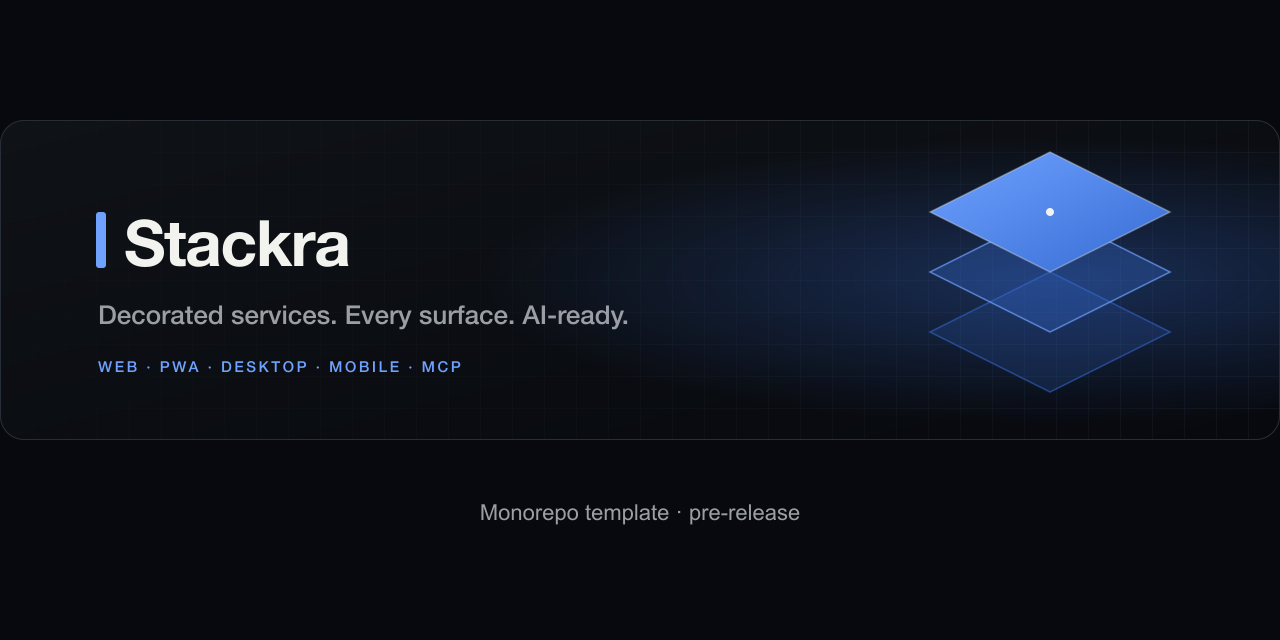
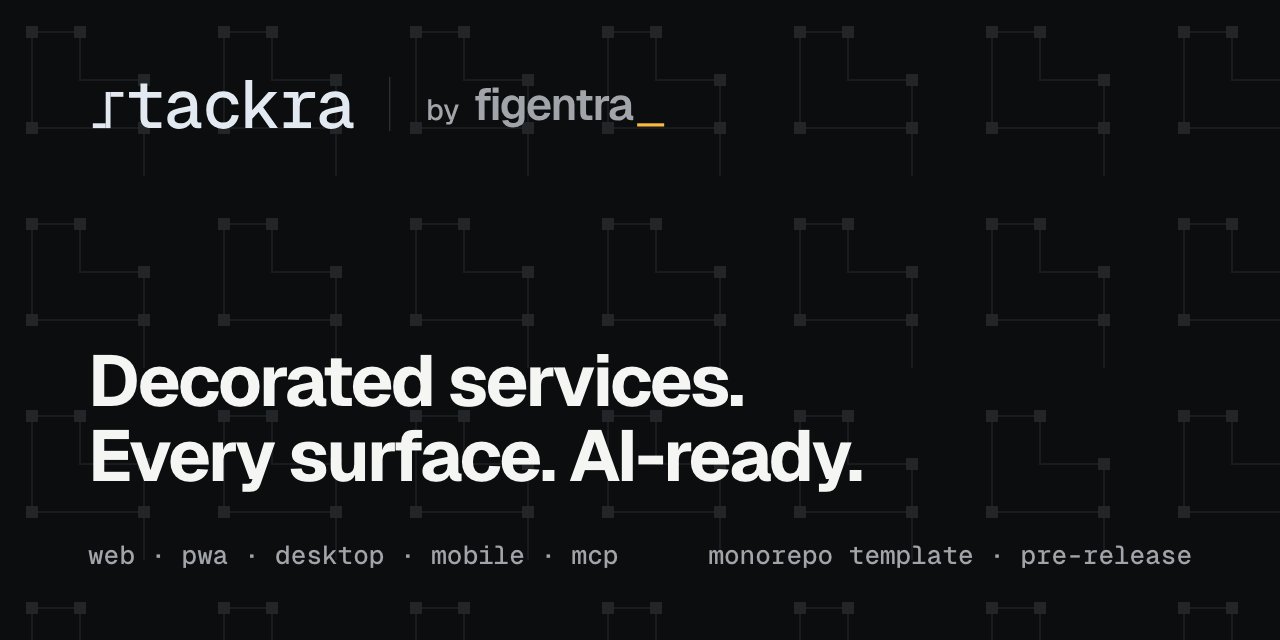
chore(repo): 🎨 Stackra brand kit in the README, social preview and trademark notice (#7)
- README opens with the endorsed Stackra logo (dark and light) from .github/assets/brand/,
  copied unmodified from @stackra/brand; badges use brand token colours.
- Social preview rebuilt from the brand kit: wordmark with the by figentra_ signature,
  neutral palette, the kit's graph pattern; the old banner.svg is removed.
- TRADEMARKS.md covers the bundled Stackra assets only; your own code stays yours.
  .github/assets/NOTICE scopes the images.
- The mobile placeholder logo is the neutral Acme mark, like web and console.
- REVIEW.md lists the new files, the full .mcp.yaml and the .vscode setup.

diff --git a/REVIEW.md b/REVIEW.md
@@ -37,23 +37,24 @@ repository (`final-project`, `main`), then cleaned for public use: every repo op
 (`@acme/*`, `acme.dev`), listed in README "Make it yours". **Copied** = from the real repo unchanged; **adapted** = copied, then changed to v2 and made generic;
 **template** = exists only here.
 
-| Item                                                   | For                                                                                                                   | Origin                                                                                                                                   |
-| ------------------------------------------------------ | --------------------------------------------------------------------------------------------------------------------- | ---------------------------------------------------------------------------------------------------------------------------------------- |
-| `package.json`                                         | root scripts, all thin calls: `stackra verify`, `validate`, `new`, `gen`, `agents setup` …                            | adapted: no `node tools/scripts/*`; `prepare` runs `lefthook install && stackra mcp sync`; `agents:setup`; tooling presets `workspace:*` |
-| `pnpm-workspace.yaml`                                  | members and every version                                                                                             | adapted: `release` catalog, knip, coverage, `@types/node`; tool versions aligned with the real repo                                      |
-| `turbo.jsonc`                                          | task graph and tier boundaries                                                                                        | adapted: the template's `gen`-first graph plus remote cache, strict env, `format`, `clean`, `dev`, `test:coverage`                       |
-| `runway.yaml`, `stackra.lock.yaml`                     | infrastructure; pinned external producer manifests                                                                    | template                                                                                                                                 |
-| `AGENTS.md`, `CLAUDE.md`                               | this project's facts: glossary, member layout, rules of the model, commands; `CLAUDE.md` is `@AGENTS.md`              | adapted: no projected rules block; a Commands section points at `stackra agents setup` and the Stackra MCP                               |
-| `.claude/launch.json`                                  | the assistant preview's dev-server launch configuration (docs on 3333)                                                | copied (no `settings.json`: permissions and hooks are user-level)                                                                        |
-| `.github/`                                             | Quality Gate (`pnpm verify`, commitlint, secret scan), release, issue and PR templates, CODEOWNERS, branch protection | adapted: no Linear check, no bot token, placeholder team, one required approval                                                          |
-| `.changeset/`                                          | Changesets config and README                                                                                          | copied (README links made generic)                                                                                                       |
-| `.gitignore`, `.gitattributes`                         | what git never tracks; generated markers                                                                              | adapted: `.stackra/*` except the two contracts; `.mcp.json` ignored                                                                      |
-| `.oxlintrc.jsonc`, `.oxfmtrc.jsonc`, `knip.jsonc`      | lint, format, unused-code entries                                                                                     | adapted: in-repo boundaries preset; generated `.stackra` files are knip entries                                                          |
-| `lefthook.yml`, `.commitlintrc.yaml`, `.gitleaks.toml` | git hooks, conventional commits, secret scan                                                                          | adapted: pre-push runs `stackra gen --check` and `stackra verify --affected`; the issue-key rule is off until you set it                 |
-| `mise.toml`, `.node-version`, `.editorconfig`          | toolchain pins, editor contract                                                                                       | `mise.toml` adapted (no AWS profile, no spec-kit); others copied                                                                         |
-| `.mcp.yaml`                                            | the Stackra MCP only: local `stackra mcp` and the hosted server (placeholder URL)                                     | adapted: third-party servers are user-level; `.mcp.json` is rendered by `stackra mcp sync` and gitignored                                |
-| `CONTRIBUTING.md`, `SECURITY.md`, `LICENSE`, `NOTICE`  | contributor steps, disclosure policy, MIT, licence exclusions                                                         | adapted (placeholder security contact, no tracker key); `LICENSE` copied                                                                 |
-| `packages/tooling/{typescript,oxlint,vitest,tsdown}`   | tier:config presets every member extends                                                                              | adapted: presets imported by file name (`service.json` added), decorators on in library/app/expo, v2 boundaries                          |
+| Item                                                                   | For                                                                                                                                  | Origin                                                                                                                                          |
+| ---------------------------------------------------------------------- | ------------------------------------------------------------------------------------------------------------------------------------ | ----------------------------------------------------------------------------------------------------------------------------------------------- |
+| `package.json`                                                         | root scripts, all thin calls: `stackra verify`, `validate`, `new`, `gen`, `agents setup` …                                           | adapted: no `node tools/scripts/*`; `prepare` runs `lefthook install && stackra mcp sync`; `agents:setup`; tooling presets `workspace:*`        |
+| `pnpm-workspace.yaml`                                                  | members and every version                                                                                                            | adapted: `release` catalog, knip, coverage, `@types/node`; tool versions aligned with the real repo                                             |
+| `turbo.jsonc`                                                          | task graph and tier boundaries                                                                                                       | adapted: the template's `gen`-first graph plus remote cache, strict env, `format`, `clean`, `dev`, `test:coverage`                              |
+| `runway.yaml`, `stackra.lock.yaml`                                     | infrastructure; pinned external producer manifests                                                                                   | template                                                                                                                                        |
+| `AGENTS.md`, `CLAUDE.md`                                               | this project's facts: glossary, member layout, rules of the model, commands; `CLAUDE.md` is `@AGENTS.md`                             | adapted: no projected rules block; a Commands section points at `stackra agents setup` and the Stackra MCP                                      |
+| `.claude/launch.json`                                                  | the assistant preview's dev-server launch configuration (docs on 3333)                                                               | copied (no `settings.json`: permissions and hooks are user-level)                                                                               |
+| `.vscode/`, `.markdownlint.yaml`, `cspell.config.yaml`                 | repo-level editor setup: settings (oxfmt as the only formatter, schema mappings), recommended extensions, launch and tasks, spelling | template; shared by everyone who opens the repo                                                                                                 |
+| `.github/`                                                             | Quality Gate (`pnpm verify`, commitlint, secret scan), release, issue and PR templates, CODEOWNERS, branch protection                | adapted: no Linear check, no bot token, placeholder team, one required approval                                                                 |
+| `.changeset/`                                                          | Changesets config and README                                                                                                         | copied (README links made generic)                                                                                                              |
+| `.gitignore`, `.gitattributes`                                         | what git never tracks; generated markers                                                                                             | adapted: `.stackra/*` except the two contracts; `.mcp.json` ignored                                                                             |
+| `.oxlintrc.jsonc`, `.oxfmtrc.jsonc`, `knip.jsonc`                      | lint, format, unused-code entries                                                                                                    | adapted: in-repo boundaries preset; generated `.stackra` files are knip entries                                                                 |
+| `lefthook.yml`, `.commitlintrc.yaml`, `.gitleaks.toml`                 | git hooks, conventional commits, secret scan                                                                                         | adapted: pre-push runs `stackra gen --check` and `stackra verify --affected`; the issue-key rule is off until you set it                        |
+| `mise.toml`, `.node-version`, `.editorconfig`                          | toolchain pins, editor contract                                                                                                      | `mise.toml` adapted (no AWS profile, no spec-kit); others copied                                                                                |
+| `.mcp.yaml`                                                            | every MCP server the stack uses: the Stackra MCP (local and hosted), docs servers and the tool servers (24 in all)                   | adapted: token servers run through `stackra mcp exec` with `$VAR` references; `.mcp.json` is rendered by `stackra mcp sync` and gitignored      |
+| `CONTRIBUTING.md`, `SECURITY.md`, `LICENSE`, `NOTICE`, `TRADEMARKS.md` | contributor steps, disclosure policy, MIT, licence exclusions, trademark terms for the bundled Stackra brand assets                  | adapted (placeholder security contact, no tracker key); `LICENSE` copied; `TRADEMARKS.md` covers only the Stackra assets, your code stays yours |
+| `packages/tooling/{typescript,oxlint,vitest,tsdown}`                   | tier:config presets every member extends                                                                                             | adapted: presets imported by file name (`service.json` added), decorators on in library/app/expo, v2 boundaries                                 |
 
 **Moved into `@stackra/cli`** (not in the template; the preview cannot run them until the CLI exists):
 
@@ -82,8 +83,10 @@ Not copied, on purpose:
 - spec-kit (`.specify/`, `.agents/speckit/`, `.agents/specs/`, the `speckit-*` skills and commands, `spec-gate`,
   `spec-trace`, `spec-linear`, the `spec-writer` agent and `docs-spec-flow` skill): every artefact is keyed to Linear
   issues and the framework's SDLC lanes. Owner decision below.
-- `.notes/` and `.gitmodules` (private notes), `.infisical.yaml` (workspace id), `.github/NOTICE` and
-  `social-preview.png` (framework brand image), the pending framework changesets.
+- `.notes/` and `.gitmodules` (private notes), `.infisical.yaml` (workspace id), `.github/NOTICE` (the framework's
+  licence-exclusion notice), the pending framework changesets. The template keeps the Stackra brand assets it
+  shows: `.github/assets/brand/` (README logo), `.github/assets/social-preview.png`, both covered by
+  `.github/assets/NOTICE` and `TRADEMARKS.md`.
 - `pnpm-lock.yaml`, `node_modules/`, `.turbo/`, `.cache/`, `.DS_Store`, `.claude/settings.local.json`, worktrees:
   install, build, machine and per-user output.
 

diff --git a/README.md b/README.md
@@ -1,16 +1,19 @@
 <p align="center">
-  <img src=".github/assets/banner.svg" alt="Stackra: decorated services, every surface, AI-ready" width="100%">
+  <picture>
+    <source media="(prefers-color-scheme: dark)" srcset=".github/assets/brand/stackra-endorsed-en-dark.svg" />
+    <img src=".github/assets/brand/stackra-endorsed-en-light.svg" alt="stackra, by figentra" height="48" />
+  </picture>
 </p>
 
 <p align="center">
-  <a href="LICENSE"><img alt="License: MIT" src="https://img.shields.io/badge/license-MIT-366bd3.svg"></a>
+  <a href="LICENSE"><img alt="License: MIT" src="https://img.shields.io/badge/license-MIT-F8BD40.svg"></a>
   <a href="https://github.com/figentra/stackra-template/actions/workflows/ci.yml"><img alt="CI" src="https://github.com/figentra/stackra-template/actions/workflows/ci.yml/badge.svg"></a>
-  <a href=".node-version"><img alt="Node 24" src="https://img.shields.io/badge/node-24-339933.svg?logo=node.js&logoColor=white"></a>
-  <a href="https://pnpm.io"><img alt="pnpm 12" src="https://img.shields.io/badge/pnpm-12-f69220.svg?logo=pnpm&logoColor=white"></a>
-  <a href="https://www.typescriptlang.org"><img alt="TypeScript" src="https://img.shields.io/badge/TypeScript-strict-3178c6.svg?logo=typescript&logoColor=white"></a>
-  <a href="https://turborepo.com"><img alt="Turborepo" src="https://img.shields.io/badge/Turborepo-monorepo-ef4444.svg?logo=turborepo&logoColor=white"></a>
-  <a href="https://www.conventionalcommits.org"><img alt="Conventional Commits" src="https://img.shields.io/badge/Conventional%20Commits-1.0.0-fe5196.svg?logo=conventionalcommits&logoColor=white"></a>
-  <a href="CONTRIBUTING.md"><img alt="PRs welcome" src="https://img.shields.io/badge/PRs-welcome-22c55e.svg"></a>
+  <a href=".node-version"><img alt="Node 24" src="https://img.shields.io/badge/node-24-0B0D0F.svg?logo=node.js&logoColor=white"></a>
+  <a href="https://pnpm.io"><img alt="pnpm 12" src="https://img.shields.io/badge/pnpm-12-0B0D0F.svg?logo=pnpm&logoColor=white"></a>
+  <a href="https://www.typescriptlang.org"><img alt="TypeScript" src="https://img.shields.io/badge/TypeScript-strict-0B0D0F.svg?logo=typescript&logoColor=white"></a>
+  <a href="https://turborepo.com"><img alt="Turborepo" src="https://img.shields.io/badge/Turborepo-monorepo-0B0D0F.svg?logo=turborepo&logoColor=white"></a>
+  <a href="https://www.conventionalcommits.org"><img alt="Conventional Commits" src="https://img.shields.io/badge/Conventional%20Commits-1.0.0-0B0D0F.svg?logo=conventionalcommits&logoColor=white"></a>
+  <a href="CONTRIBUTING.md"><img alt="PRs welcome" src="https://img.shields.io/badge/PRs-welcome-1F7A3A.svg"></a>
 </p>
 
 # Stackra monorepo template
@@ -178,7 +181,7 @@ window.
 ├── mise.toml · .node-version     toolchain pins
 ├── .mcp.yaml                     the Stackra MCP (local `stackra mcp` + hosted); rendered to .mcp.json
 ├── .claude/launch.json           dev-server launch configuration for the assistant's preview
-├── CLAUDE.md · CONTRIBUTING.md · SECURITY.md · LICENSE · NOTICE
+├── CLAUDE.md · CONTRIBUTING.md · SECURITY.md · LICENSE · NOTICE · TRADEMARKS.md
 ├── apps/                         tier:app (apps/README.md)
 │   ├── console/                  @acme/console: tenant console, targets web + pwa + desktop
 │   │   ├── stackra.config.ts · runway.yaml · package.json · turbo.jsonc · tsconfig.json
@@ -454,3 +457,4 @@ lives in your secret store (Infisical by default, ADR 0173).
 ## Licence
 
 MIT, see [`LICENSE`](LICENSE). Brand assets, fonts and paid-licence code are excluded, see [`NOTICE`](NOTICE).
+The Stackra and Figentra names and logos are trademarks, see [`TRADEMARKS.md`](TRADEMARKS.md).

diff --git a/TRADEMARKS.md b/TRADEMARKS.md
@@ -1,0 +1,23 @@
+# Trademarks
+
+Stackra™ and Figentra™, and the Stackra and Figentra logos, are trademarks of Figentra Technologies FZ-LLC.
+
+This file covers only the Stackra brand assets bundled with the template: the logos in `.github/assets/brand/` and
+the social image in `.github/assets/`. The MIT licence in [`LICENSE`](LICENSE) covers code only; it grants no right
+to these names or logos. The code you write in a project made from this template stays yours, under the licence you
+choose.
+
+## Allowed
+
+- Using the names to refer to the Stackra project, for example "built with Stackra".
+- Showing the unmodified Stackra logo next to such a reference.
+
+## Not allowed
+
+- Implying that Figentra endorses, sponsors or maintains your project or product.
+- Modifying, recolouring or combining the logos with other marks.
+- Naming a product, package, domain or company with "Stackra" or "Figentra" in it.
+
+Replace the bundled brand assets with your own before you publish a project made from this template.
+
+Questions: open a GitHub issue on this repository.
